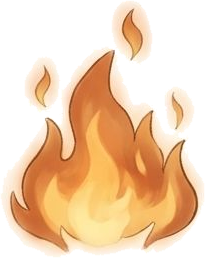
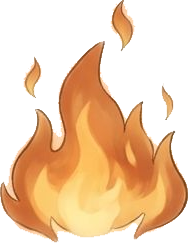
fix: ajustar posicoes de Cogumelo/Chinu, placa Ler acima da esfera, numero mobile e recorte da fogueira

diff --git a/src/app/globals.css b/src/app/globals.css
@@ -859,8 +859,8 @@ button {
 }
 
 .mushroom-hotspot.is-on-cave {
-	left: 24.5%;
-	top: -7.5%;
+	left: 21.5%;
+	top: -4.5%;
 	width: 11.4%;
 	aspect-ratio: 520 / 372;
 }
@@ -904,14 +904,14 @@ button {
 }
 
 .chinu-hotspot.is-on-ground {
-	left: 36.2%;
+	left: 38.2%;
 	top: 41.8%;
 	width: 11.4%;
 	aspect-ratio: 473 / 520;
 }
 
 .chinu-hotspot.is-on-cave {
-	left: 21.8%;
+	left: 24.2%;
 	top: -11.5%;
 	width: 10.8%;
 	aspect-ratio: 444 / 520;
@@ -1093,16 +1093,17 @@ button {
 		width: 9.8%;
 	}
 	.mushroom-hotspot.is-on-cave {
+		left: 20.5%;
 		width: 14.5%;
-		top: -9.5%;
+		top: -6.0%;
 	}
 	.chinu-hotspot.is-on-ground {
-		left: 36.2%;
+		left: 38.2%;
 		width: 14.2%;
 		top: 41.0%;
 	}
 	.chinu-hotspot.is-on-cave {
-		left: 21.5%;
+		left: 24.0%;
 		width: 13.4%;
 		top: -13.5%;
 	}
@@ -1116,11 +1117,11 @@ button {
 	}
 	.mushroom-chapter-num {
 		font-size: clamp(0.56rem, 2.25vw, 0.86rem);
-		top: 21%;
+		top: 17.5%;
 	}
 	.mushroom-hotspot.is-on-cave .mushroom-chapter-num {
 		left: 75.5%;
-		top: 73.5%;
+		top: 68.5%;
 		font-size: clamp(0.76rem, 3.05vw, 1.08rem);
 		transform: translate(-50%, -50%) rotate(-7deg);
 	}
@@ -1138,8 +1139,8 @@ button {
 		bottom: calc(100% + 4px);
 	}
 	.orb-hotspot .stone-tag {
-		bottom: auto;
-		top: calc(100% + 6px);
+		top: auto;
+		bottom: calc(100% + 6px);
 	}
 	.weapons-hotspot .stone-tag {
 		left: 65%;
